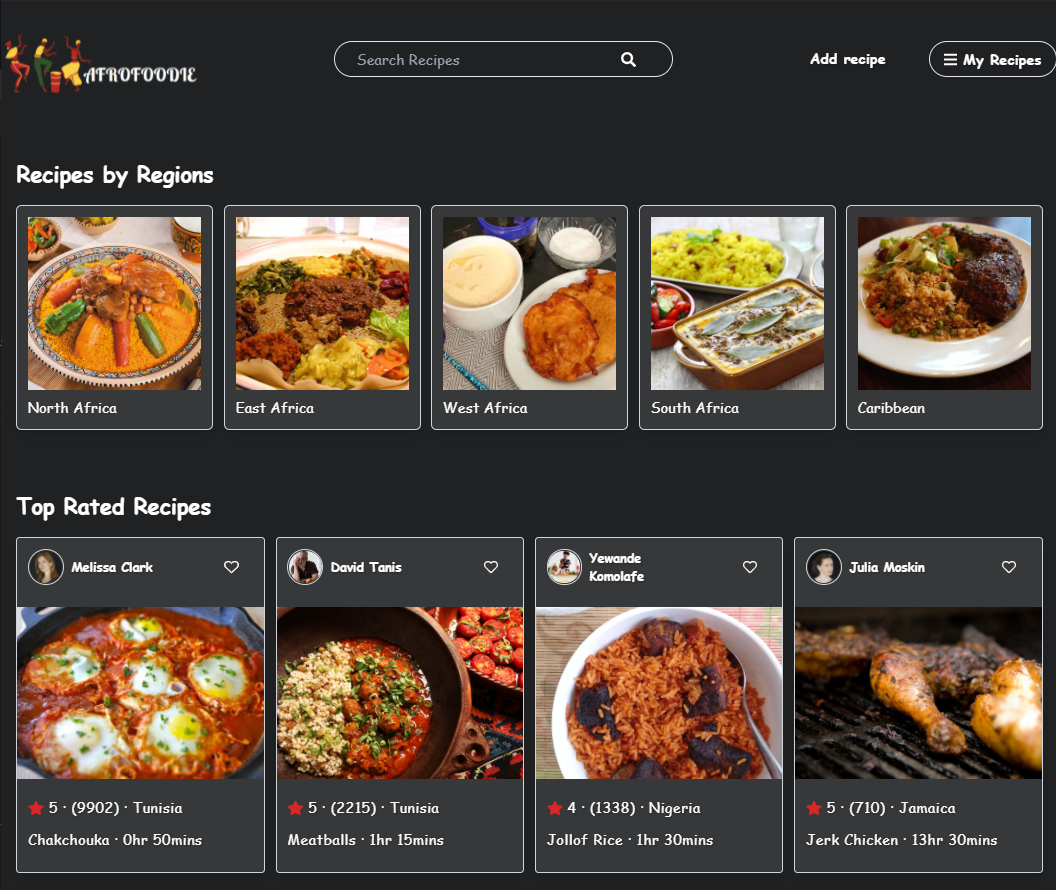
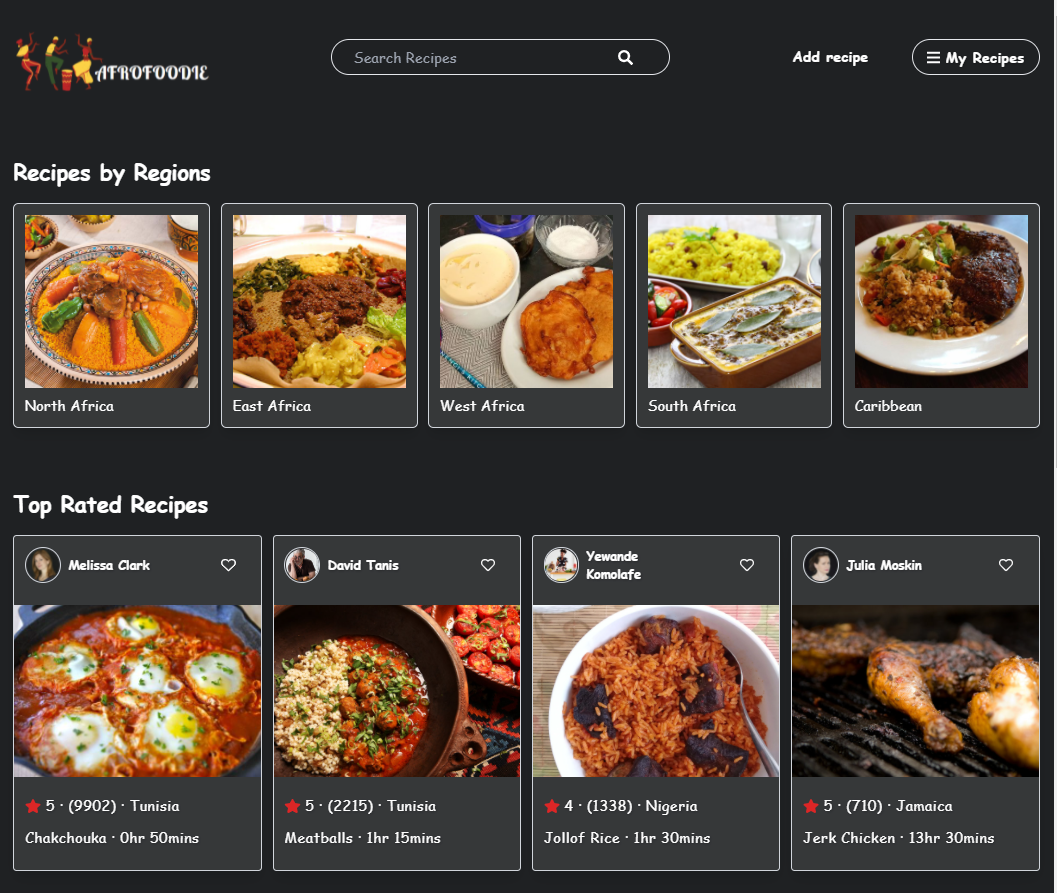
adding parcel
adding a bundling npm package

diff --git a/src/js/controller.js b/src/js/controller.js
@@ -72,7 +72,7 @@ const search = e => {
   regionsContainer.classList.add('hidden');
   dietContainer.classList.add('hidden');
   recipeContainer.innerHTML = '';
-  allResultsTitle.innerHTML = 'Search Results';
+  allResultsTitle.innerHTML = `${searchTerm}`;
   if (searchResult.length < 4) {
     loadBtn.classList.add('hidden');
   }

diff --git a/index.html b/index.html
@@ -26,7 +26,7 @@
   </head>
 
   <body>
-    <header class="header mb-12 flex justify-between items-center">
+    <header class="header mb-12 px-4 flex justify-between items-center">
       <div class="relative h-32">
         <a href="index.html">
           <img class="h-32" src="./src/img/logoDark.png" alt="Logo" />
